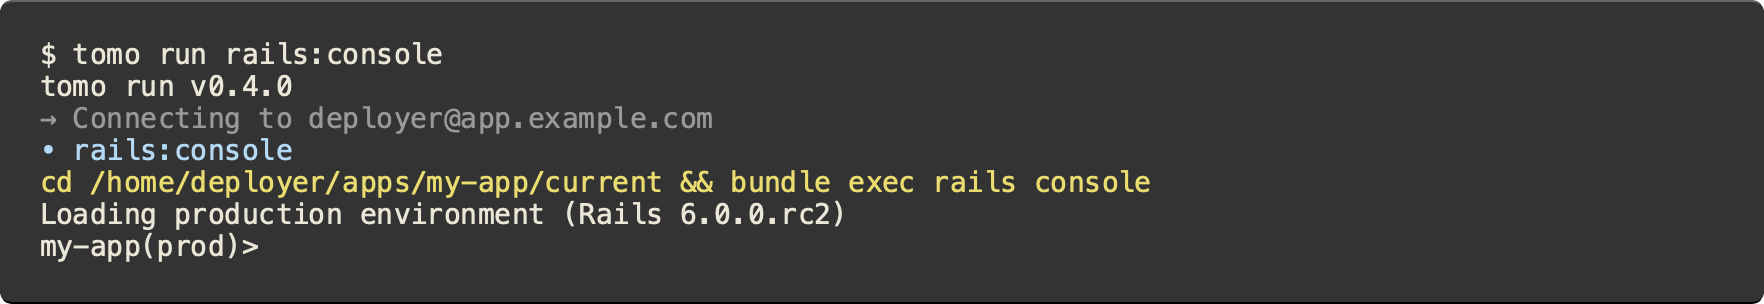
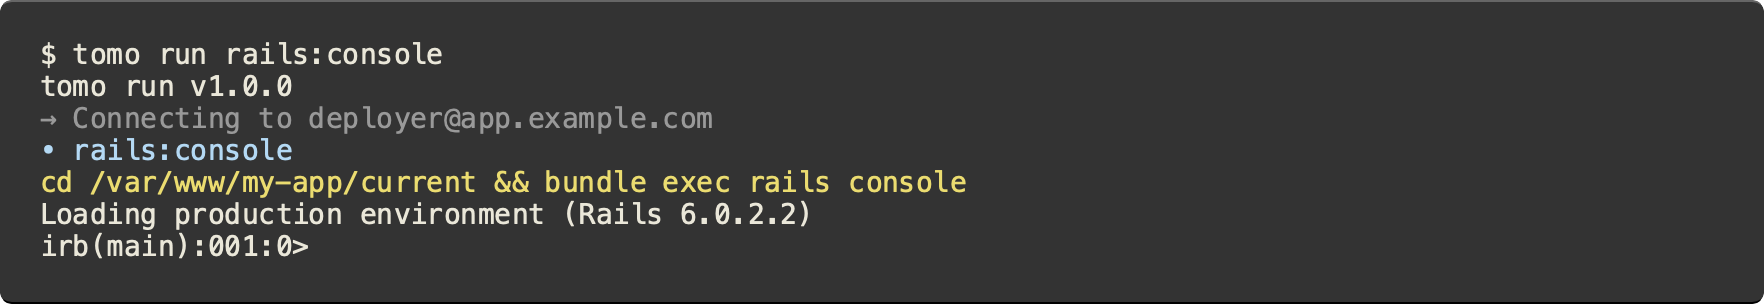
Update version numbers referenced in docs to 1.0.0 (#116)
* Update version numbers referenced in docs to 1.0.0

* Regenerate README .png images for v1.0.0

Changed region(s): [[0.0624, 0.5625, 0.6548, 0.7401], [0.0, 0.7697, 0.1871, 0.8586], [0.0935, 0.2368, 0.1559, 0.3257]]

diff --git a/docs/tutorials/writing-custom-tasks.md b/docs/tutorials/writing-custom-tasks.md
@@ -134,7 +134,7 @@ We'll start by building the simpler of the two tasks: `cron:show`. First, let's 
 
 ```plain
 $ tomo run cron:show
-tomo run v0.8.0
+tomo run v1.0.0
 
   ERROR: cron:show is not a recognized task.
   To see a list of all available tasks, run tomo tasks.
@@ -162,7 +162,7 @@ Now we can try again:
 
 ```plain
 $ tomo run cron:show
-tomo run v0.8.0
+tomo run v1.0.0
 → Connecting to deployer@app.example.com
 • cron:show
 Hi
@@ -181,7 +181,7 @@ One more try:
 
 ```plain
 $ tomo run cron:show
-tomo run v0.8.0
+tomo run v1.0.0
 → Connecting to deployer@app.example.com
 • cron:show
 crontab -l
@@ -212,7 +212,7 @@ Now we're all good:
 
 ```plain
 $ tomo run cron:show
-tomo run v0.8.0
+tomo run v1.0.0
 → Connecting to deployer@app.example.com
 • cron:show
 crontab -l
@@ -237,7 +237,7 @@ If we try to run `tomo setup` at this point, we'll get an error as expected:
 
 ```plain
 $ tomo setup
-tomo setup v0.8.0
+tomo setup v1.0.0
 
   ERROR: cron:install is not a recognized task.
   To see a list of all available tasks, run tomo tasks.
@@ -263,7 +263,7 @@ We can see what this task does without actually affecting the remote host by usi
 
 ```plain
 $ tomo run cron:install --dry-run
-tomo run v0.8.0
+tomo run v1.0.0
 * → Connecting to deployer@app.example.com
 * • cron:install
 * echo SHELL\=/bin/bash'
@@ -298,7 +298,7 @@ Let's check that it still works:
 
 ```plain
 $ tomo run cron:install --dry-run
-tomo run v0.8.0
+tomo run v1.0.0
 * → Connecting to deployer@app.example.com
 * • cron:install
 * echo SHELL\=/bin/bash'
@@ -322,7 +322,7 @@ And then try it:
 
 ```plain
 $ tomo run cron:install --dry-run
-tomo run v0.8.0
+tomo run v1.0.0
 * → Connecting to deployer@app.example.com
 * • cron:install
 * echo [template:.tomo/templates/crontab.erb] | crontab -
@@ -347,7 +347,7 @@ And we can see what is installed with our `cron:show` task:
 
 ```plain
 $ tomo run cron:show
-tomo run v0.8.0
+tomo run v1.0.0
 → Connecting to deployer@app.example.com
 • cron:show
 crontab -l

diff --git a/docs/api/Logger.md b/docs/api/Logger.md
@@ -4,7 +4,7 @@ Provides a simple interface for logging messages to stdout and stderr. In multi-
 
 ```
 $ tomo run bundler:clean
-tomo run v0.1.0
+tomo run v1.0.0
 [1] → Connecting to deployer@web1.example.com
 [2] → Connecting to deployer@web2.example.com
 [1] • bundler:clean
@@ -18,7 +18,7 @@ If tomo is run in `--dry-run` mode, log messages are prefixed with a `*` to indi
 
 ```
 $ tomo run bundler:clean --dry-run
-tomo run v0.1.0
+tomo run v1.0.0
 * [1] → Connecting to deployer@web1.example.com
 * [2] → Connecting to deployer@web2.example.com
 * [1] • bundler:clean

diff --git a/docs/plugins/env.md b/docs/plugins/env.md
@@ -54,7 +54,7 @@ The first time `env:update` is run, tomo will prompt for the value:
 
 ```
 $ tomo deploy
-tomo deploy v0.1.0
+tomo deploy v1.0.0
 → Connecting to user@app.example.com
 • env:update
 SECRET_KEY_BASE?
@@ -94,7 +94,7 @@ Display the contents of the remote envrc file. This task is intended for use wit
 
 ```plain
 $ tomo run env:show
-tomo run v0.4.1
+tomo run v1.0.0
 → Connecting to deployer@app.example.com
 • env:show
 RAILS_ENV=production

diff --git a/docs/tutorials/deploying-rails-from-scratch.md b/docs/tutorials/deploying-rails-from-scratch.md
@@ -101,8 +101,8 @@ Now it is time to configure tomo to deploy this Rails app. Inside the `rails-new
 $ cd rails-new
 
 $ gem install tomo
-Fetching tomo-0.4.1.gem
-Successfully installed tomo-0.4.1
+Fetching tomo-1.0.0.gem
+Successfully installed tomo-1.0.0
 1 gem installed
 
 $ tomo init

diff --git a/docs/commands/setup.md b/docs/commands/setup.md
@@ -50,7 +50,7 @@ Then a setup would produce:
 
 ```plain
 $ tomo setup
-tomo setup v0.9.0
+tomo setup v1.0.0
 → Connecting to deployer@localhost:32829
 • env:setup
 Writing 314 bytes to /var/www/rails-new/envrc

diff --git a/docs/commands/deploy.md b/docs/commands/deploy.md
@@ -79,7 +79,7 @@ Then a deploy would produce:
 
 ```plain
 $ tomo deploy
-tomo deploy v0.9.0
+tomo deploy v1.0.0
 → Connecting to deployer@localhost:32829
 • env:update
 • git:create_release
